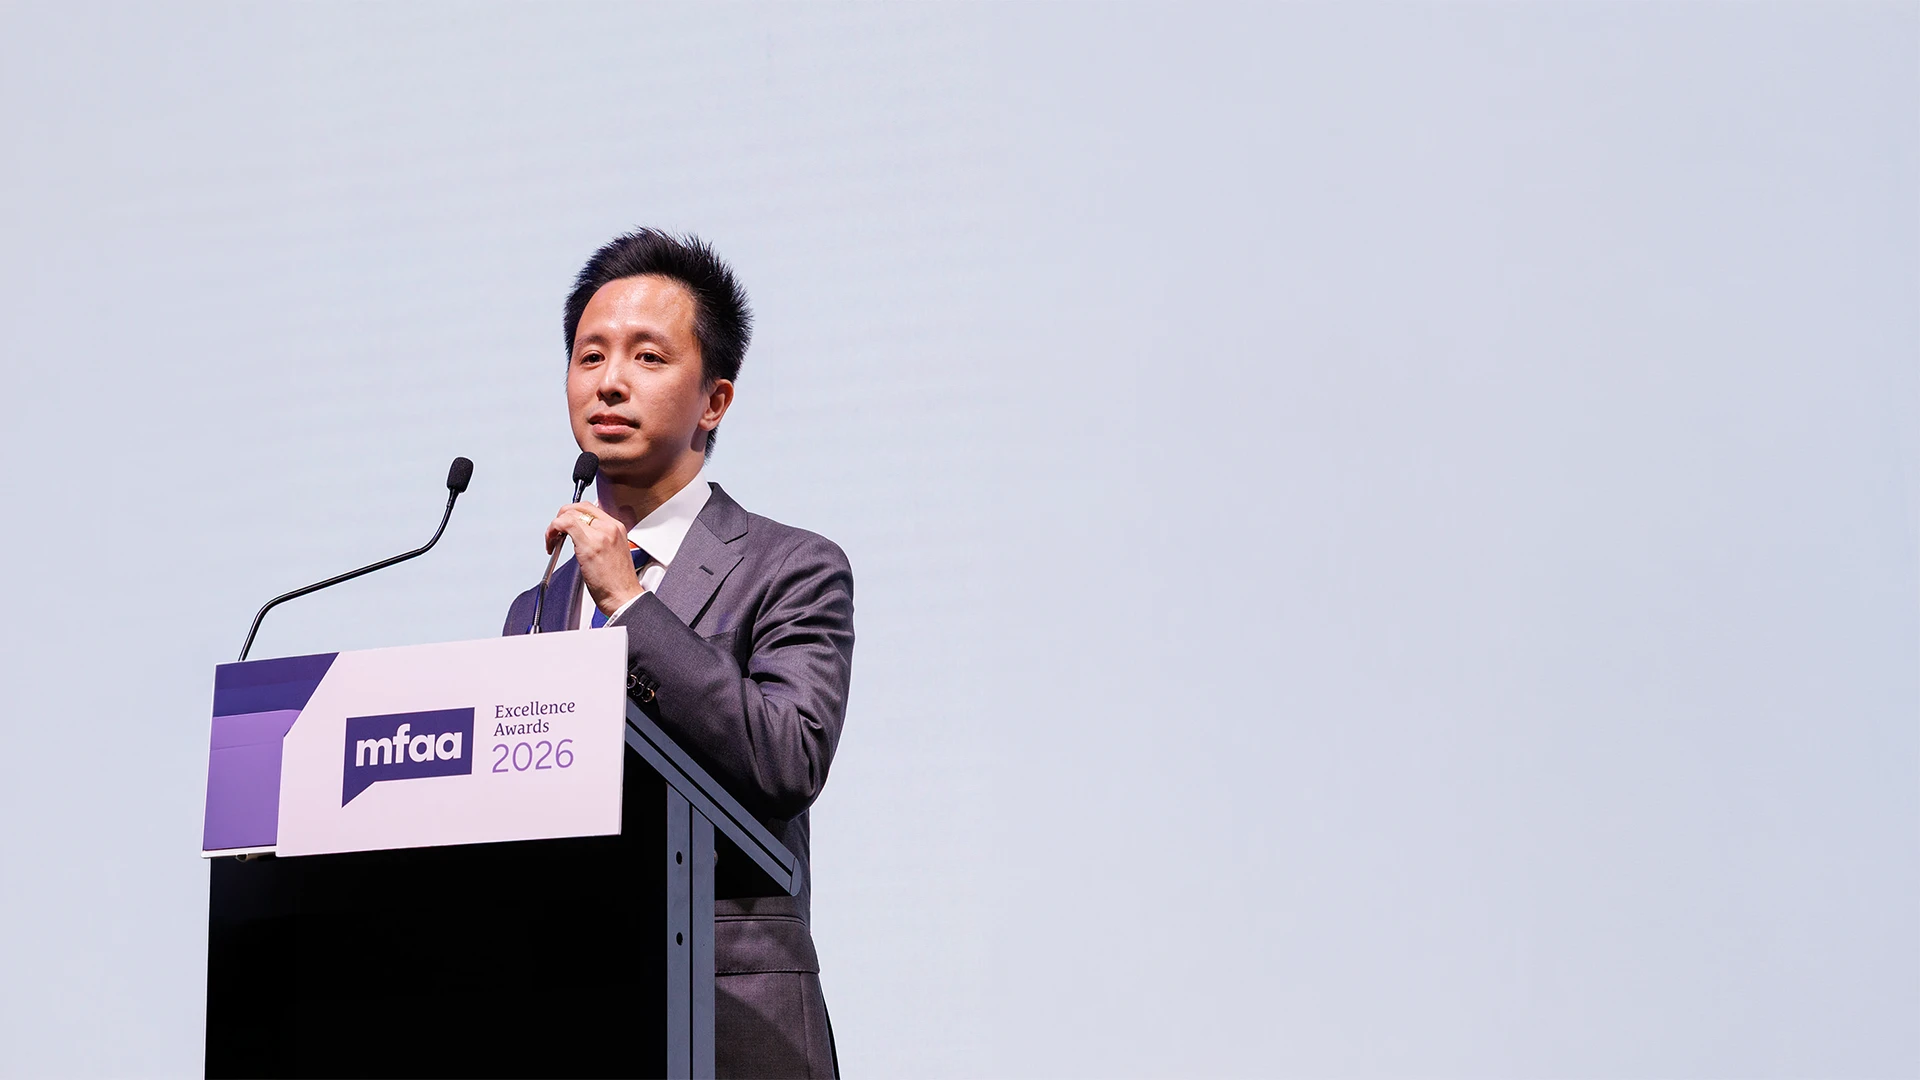
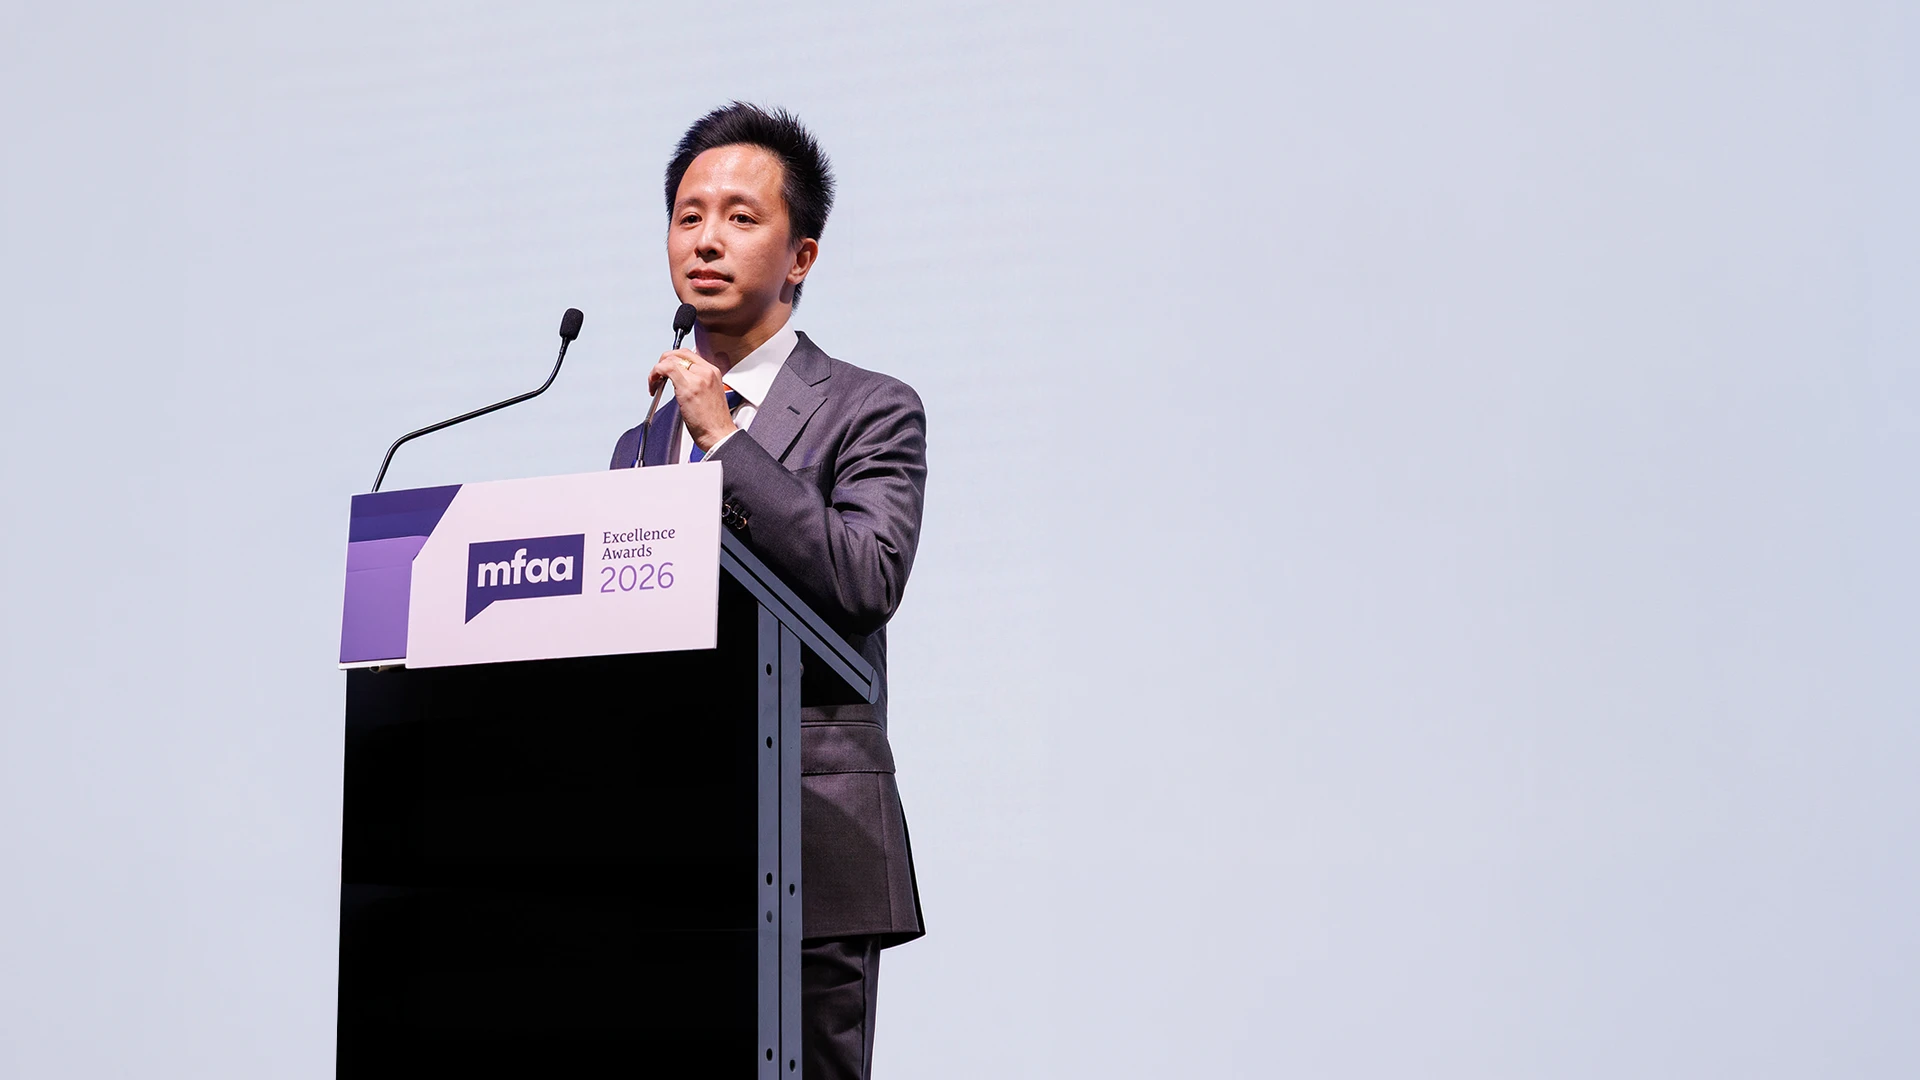
Hero slides 3 and 4: wider photos placed so the speaker's face sits above the headline

Changed region(s): [[0.0938, 0.0917, 0.5, 1.0]]

diff --git a/assets/css/landing.css b/assets/css/landing.css
@@ -412,8 +412,8 @@ h1, h2, h3 { text-wrap: balance; }
 @media (max-width: 900px) {
   .hero__media .hero__slide--1 { object-position: 27% 30%; }
   .hero__media .hero__slide--2 { object-position: 35% 40%; }
-  .hero__media .hero__slide--3 { object-position: 28% 30%; }
-  .hero__media .hero__slide--4 { object-position: 36% 35%; }
+  .hero__media .hero__slide--3 { object-position: 24% 8%; }
+  .hero__media .hero__slide--4 { object-position: 16% 8%; }
   /* phone and tablet: the photograph fills the top band edge to edge, the form follows on white */
   .hero { grid-template-columns: minmax(0, 1fr); grid-template-rows: auto auto auto auto; height: auto; min-height: 0; overflow: visible; padding: 0; row-gap: 0; }
   .hero__media { position: relative; inset: auto; z-index: -1; grid-column: 1; grid-row: 1 / 3; }
@@ -801,4 +801,10 @@ h1, h2, h3 { text-wrap: balance; }
   .hero .hero-awards__badge { height: min(clamp(80px, min(8vw, calc(var(--u, 1vh) * 13)), 140px), calc(var(--colw) / 4.4)); }
   .hero .hero__proof { margin-top: clamp(12px, calc(var(--u, 1vh) * 2.4), 26px); padding-top: clamp(12px, calc(var(--u, 1vh) * 2), 20px); }
   .stats { padding-block: clamp(20px, 2.4vw, 32px) clamp(32px, 3.4vw, 48px); }
+}
+
+/* slides 3 and 4 are wide frames with the speaker high in the picture: keep his face above the headline */
+@media (min-width: 901px) {
+  .hero__media .hero__slide--3 { object-position: 30% 8%; }
+  .hero__media .hero__slide--4 { object-position: 30% 8%; }
 }
